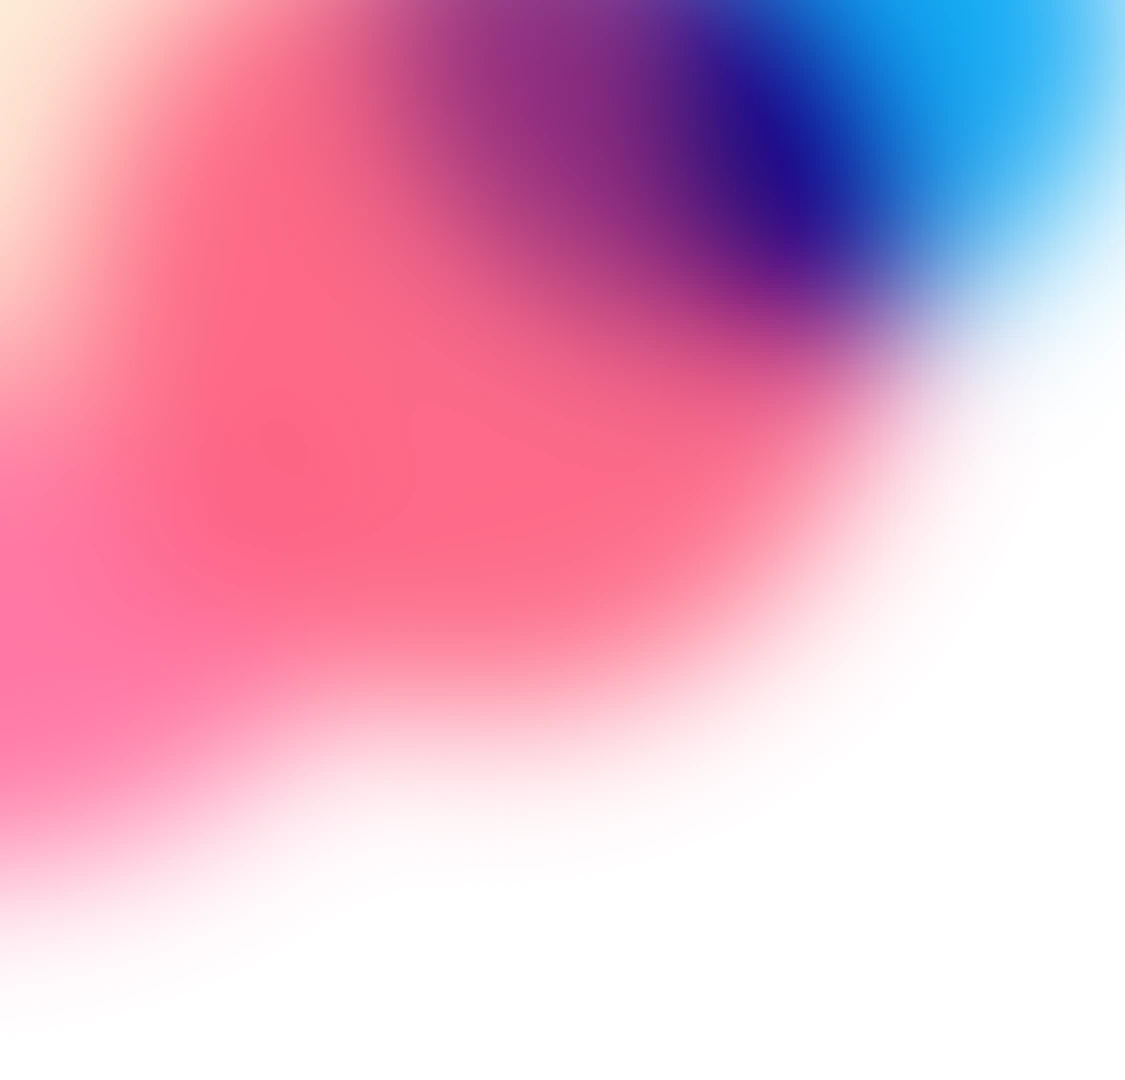
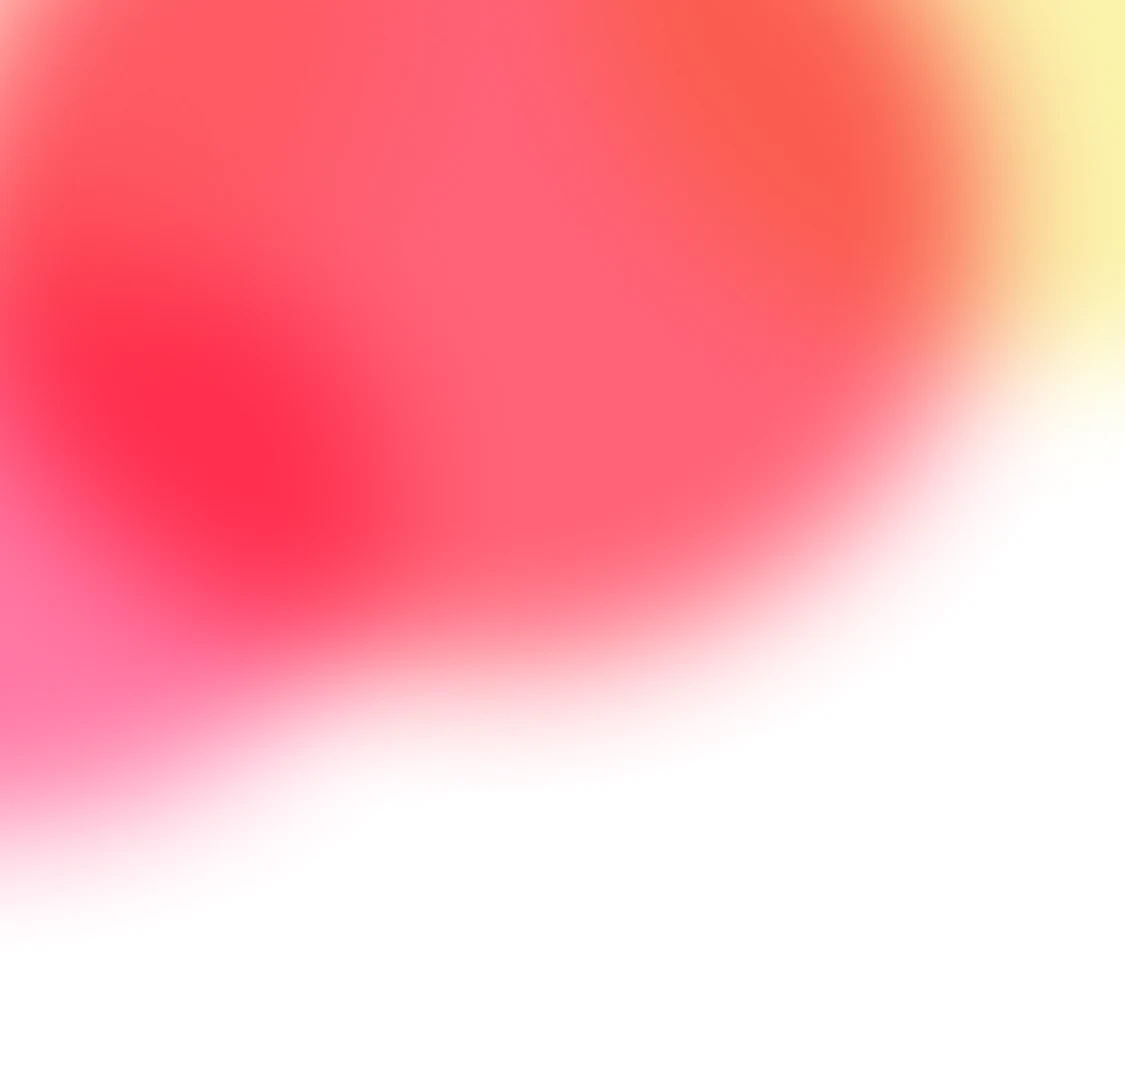
v13：首頁漸層照 Figma 1083:25414 最新版更新（珊瑚紅＋右上鵝黃），狀態列色跟著調整

diff --git a/app/v13/_components/HomeGradient.tsx b/app/v13/_components/HomeGradient.tsx
@@ -3,18 +3,17 @@
 import { useEffect, useRef, useState } from "react";
 import { EASING } from "../_lib/page-transition";
 
-// 光暈版首頁的底色：照 Figma「Chat – 光暈版（網站同步 10/7）」（1083:25414）的 bg-gradient。
-// 左上杏色、左側粉紅、中間珊瑚玫瑰，上方中間疊一層藍（linear burn）壓出深紫靛，
-// 右上再一層斜放的藍（color burn）變成亮藍、往外退成淺藍，整片往下淡成白色。
-// Figma 的 linear burn 在 CSS 沒有對應的混合模式，所以照 Figma 的圖層參數
-// （位置、大小、旋轉、layer blur、混合模式）算成一張圖：public/v13/home-glow.webp，
+// 光暈版首頁的底色：照 Figma「Chat-1」（1083:25414）的 bg-gradient（10/12 更新）。
+// 左側粉紅、中間大片珊瑚紅，右上角帶一點鵝黃，往下淡成白色。
+// Figma 用了 multiply、linear burn、color burn 等混合模式，CSS 沒有完全對應的做法，
+// 所以直接把那一層在 Figma 裡輸出成圖：public/v13/home-glow.webp，
 // 375 寬、高 360（以下全白），3 倍解析度。
 // 上方的 logo、狀態列、招呼語壓在色光上，改用白字（GLOW_TEXT_ON_COLOR）。
 export const GLOW_IS_DARK = false;
 export const GLOW_TEXT_ON_COLOR = true;
 const BASE = "#ffffff";
-// 手機狀態列的底色：取色光帶上緣的珊瑚粉
-export const GLOW_TOP = "#f66987";
+// 手機狀態列的底色：取色光上緣（頂端 20px）的平均色
+export const GLOW_TOP = "#fc7970";
 export const GLOW_BG = BASE;
 const BAND_SRC = "/v13/home-glow.webp";
 
